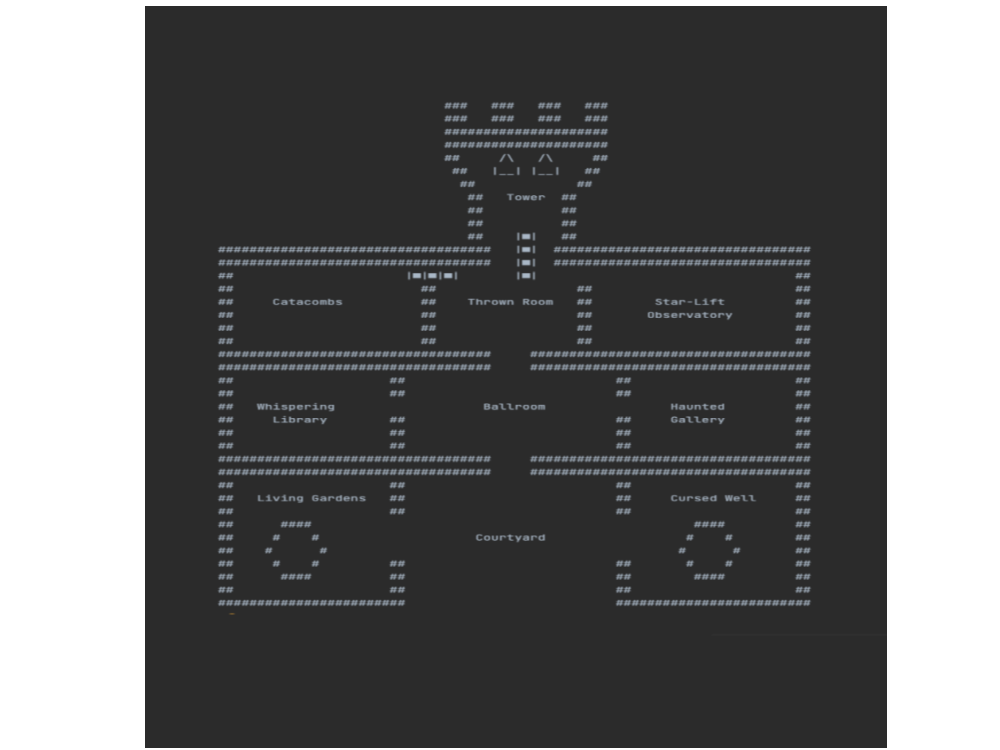
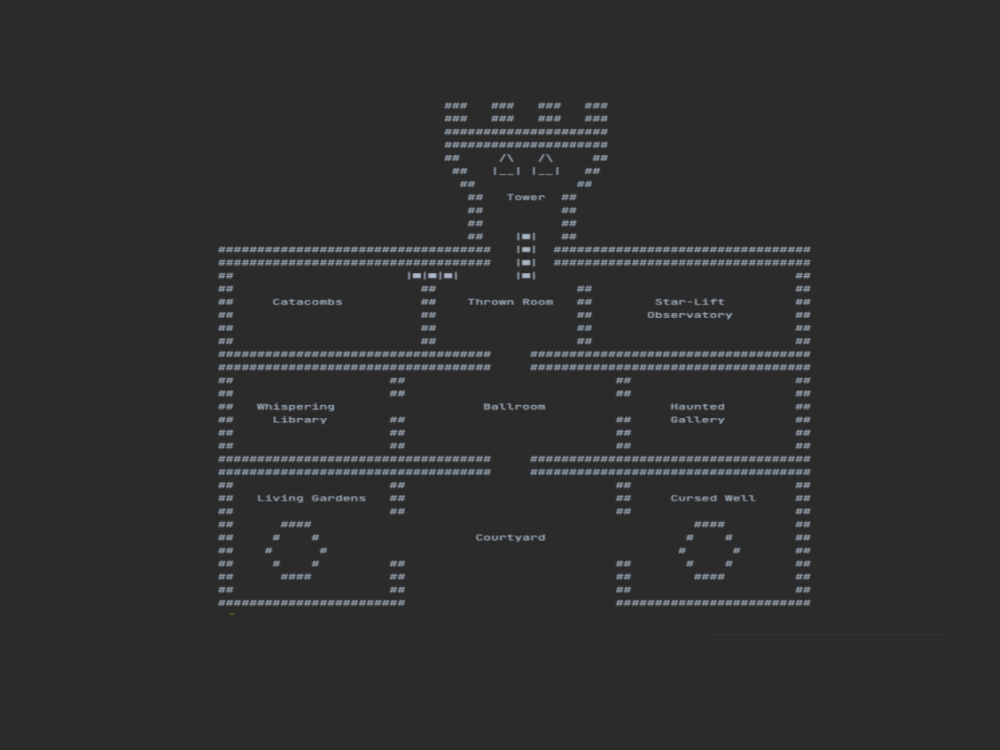
player location changes in mini map AB#482

Changed region(s): [[0.0, 0.0, 1.0, 1.0]]

diff --git a/src/main/java/com/eldoria/thelostkingdom/view/GameWindow.java b/src/main/java/com/eldoria/thelostkingdom/view/GameWindow.java
@@ -26,13 +26,14 @@ public class GameWindow extends JFrame {
 
     private final Container mainWindow = this;
     private JPanel topPanel;
-    private static JPanel bottomLeftPanel;
+    private static JLayeredPane bottomLeftPanel;
     private static JPanel bottomCenterPanel;
     private static JPanel bottomRightPanel;
     private static JPanel picPane;
     public static JTextArea textArea;
     private JFrame titleFrame;
     JPanel miniMapPane;
+    JLabel locationLabel;
     private static JTextField inputField;
     private MusicPlayer musicPlayer;
     private Character inventory = new Character();
@@ -43,6 +44,8 @@ public class GameWindow extends JFrame {
     private static JFrame inventoryFrame; // Reference to the inventory window
     private static JPanel inventoryContentPanel; // Panel inside the inventory window
     private static int clicker = 0;
+    private static final int[][] miniMapLocation = new int[][]{{100,575}, {100,525}, {165,575},
+            {35,575}, {95, 480}, {30, 520}, {165, 520}, {160, 480}, {100, 435}, {35, 480}};
 
     public GameWindow() {
 
@@ -90,7 +93,6 @@ public class GameWindow extends JFrame {
         mainWindow.add(topPanel);
 
         picPane = Helper.createImagePanel("/pictures/rooms/courtyard.png");
-//        picPane.setBounds(100, 0, 600, 400);
         picPane.setOpaque(false);
         topPanel.add(picPane, BorderLayout.CENTER);
 
@@ -100,23 +102,18 @@ public class GameWindow extends JFrame {
         mainWindow.add(directionPane);
 
         //---------------------------BOTTOM-LEFT-PANEL------------------------------
-        bottomLeftPanel = new JPanel();
-        bottomLeftPanel.setLayout(new OverlayLayout(bottomLeftPanel));
-        bottomLeftPanel.setBackground(Helper.randomColor());
-        bottomLeftPanel.setBounds(0, 400, 200, 200);
+//        bottomLeftPanel = new JLayeredPane();
+//        bottomLeftPanel.setBackground(Helper.randomColor());
+//        bottomLeftPanel.setBounds(0, 400, 200, 200);
 
         // MINI MAP:
-        bottomLeftPanel.setLayout(new OverlayLayout(bottomLeftPanel));
-        miniMapPane = Helper.createImagePanel("/pictures/CastleMap.png");
-        miniMapPane.setOpaque(false);
+        miniMapPane = Helper.createImagePanel("/pictures/castle-map.png");
+        miniMapPane.setOpaque(true);
+        miniMapPane.setBounds(0, 400, 200, 200);
 
-        JLabel locationLabel = new JLabel("X");
-        locationLabel.setForeground(Color.yellow);
+        setMiniMapLocation();
 
-        bottomLeftPanel.add(locationLabel);
-        bottomLeftPanel.add(miniMapPane);
-
-        mainWindow.add(bottomLeftPanel);
+        mainWindow.add(miniMapPane);
 
         //______________________________BOTTOM-CENTER-PANEL______________________________
 
@@ -254,13 +251,11 @@ public class GameWindow extends JFrame {
         submitButton.addActionListener(e -> processUserInput(inputField.getText().trim().toLowerCase()));//functionality
         brSPane.add(submitButton);               //add to bottom panel
 
-
-
-//        bottomRightPanel.add(addDirectionPanel());
         //_________________________________________________________________________________________
 
         //INITIAL WINDOW TIE IN:
-        addDialogueText("textFiles/intro.txt");                     //create initial text
+//        addDialogueText("textFiles/intro.txt");                     //create initial text
+        textArea.append(DisplayMethods.readFromResourceFile("textFiles/intro.txt") + "\n"); // Append the new text with a newline
         this.setVisible(false);                                               //can see the GUI plz
         titleFrame.requestFocusInWindow();
     }
@@ -463,7 +458,11 @@ public class GameWindow extends JFrame {
                         picPane = Helper.createImagePanel(currentRoomPicPath);
                         picPane.setOpaque(false);
                         topPanel.add(picPane, BorderLayout.CENTER);
+
+                        mainWindow.remove(locationLabel);
+                        mainWindow.remove(miniMapPane);
                         mainWindow.repaint();
+                        setMiniMapLocation();
 
                         textArea.setText("");
                         textArea.append("\nMoved to: " + Main.player.getRoomName());
@@ -554,5 +553,17 @@ public class GameWindow extends JFrame {
         rightButton.addActionListener(new MoveActionListener("go east"));
 
         return directionPanel;
+    }
+
+    private void setMiniMapLocation() {
+
+        locationLabel = new JLabel("X");
+        int roomIndex = Main.player.getCurrentRoomId() - 1;
+        locationLabel.setBounds(miniMapLocation[roomIndex][0], miniMapLocation[roomIndex][1], 10, 10);
+        locationLabel.setForeground(Color.red);
+        locationLabel.setOpaque(false);
+
+        mainWindow.add(locationLabel);
+        mainWindow.add(miniMapPane);
     }
 }
